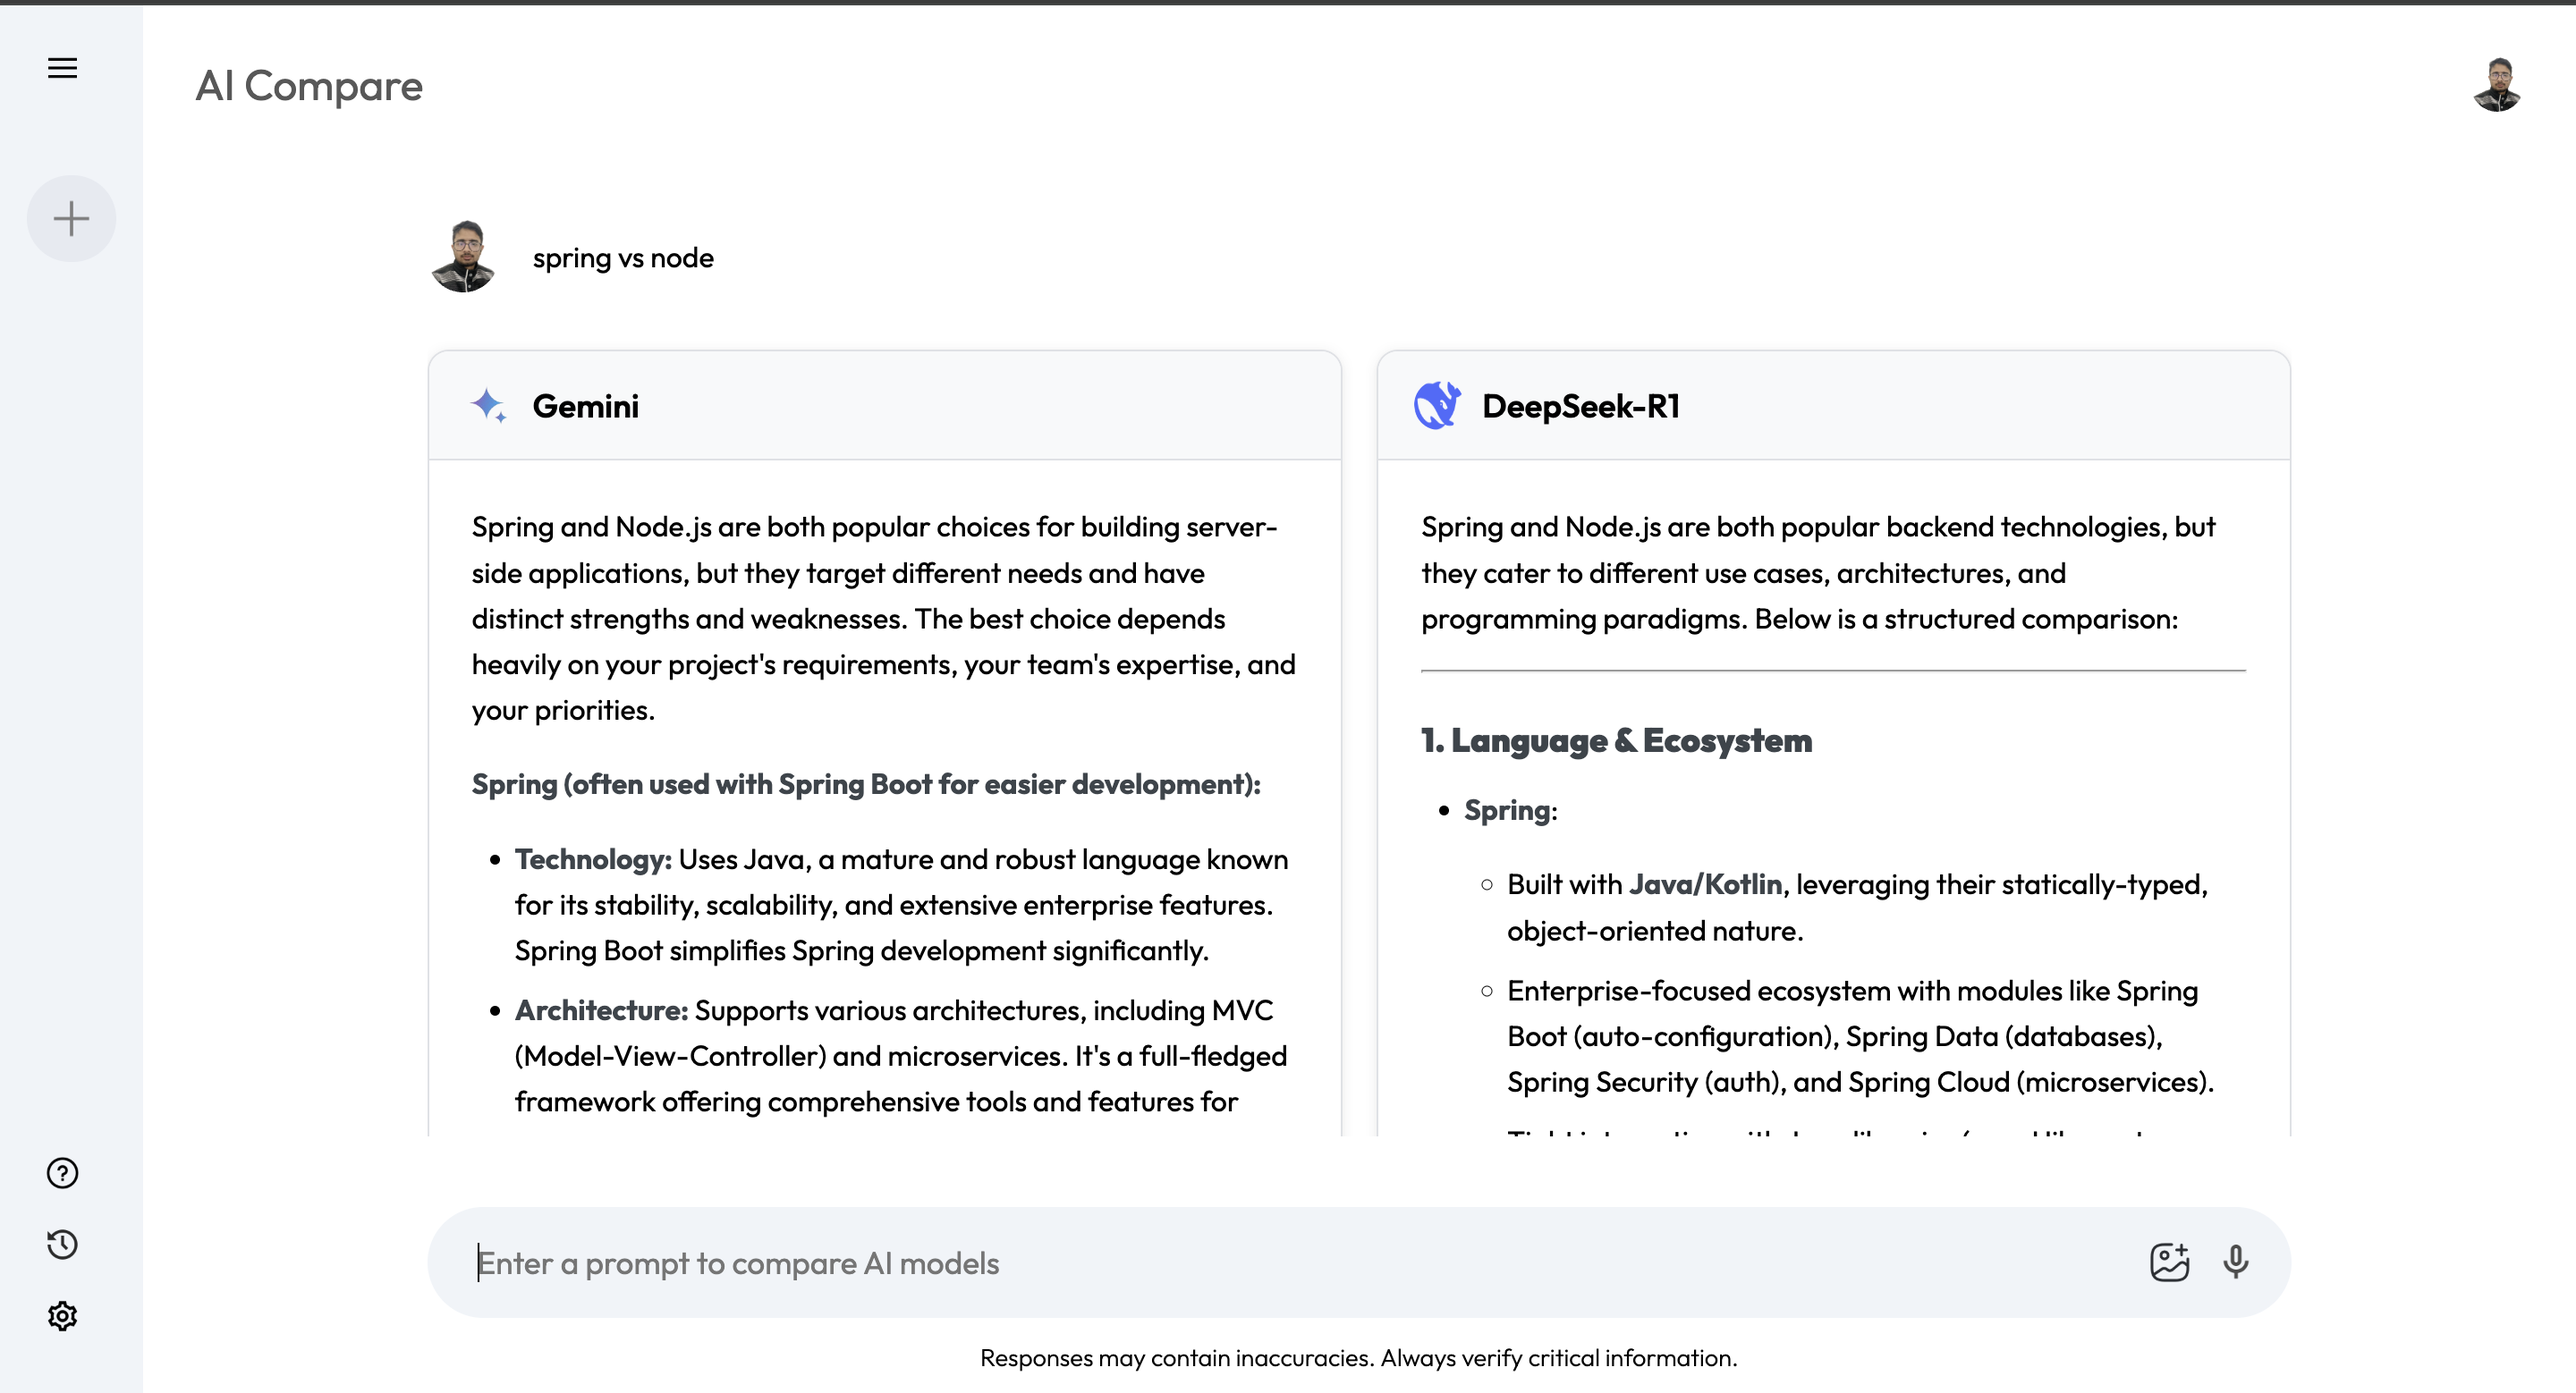
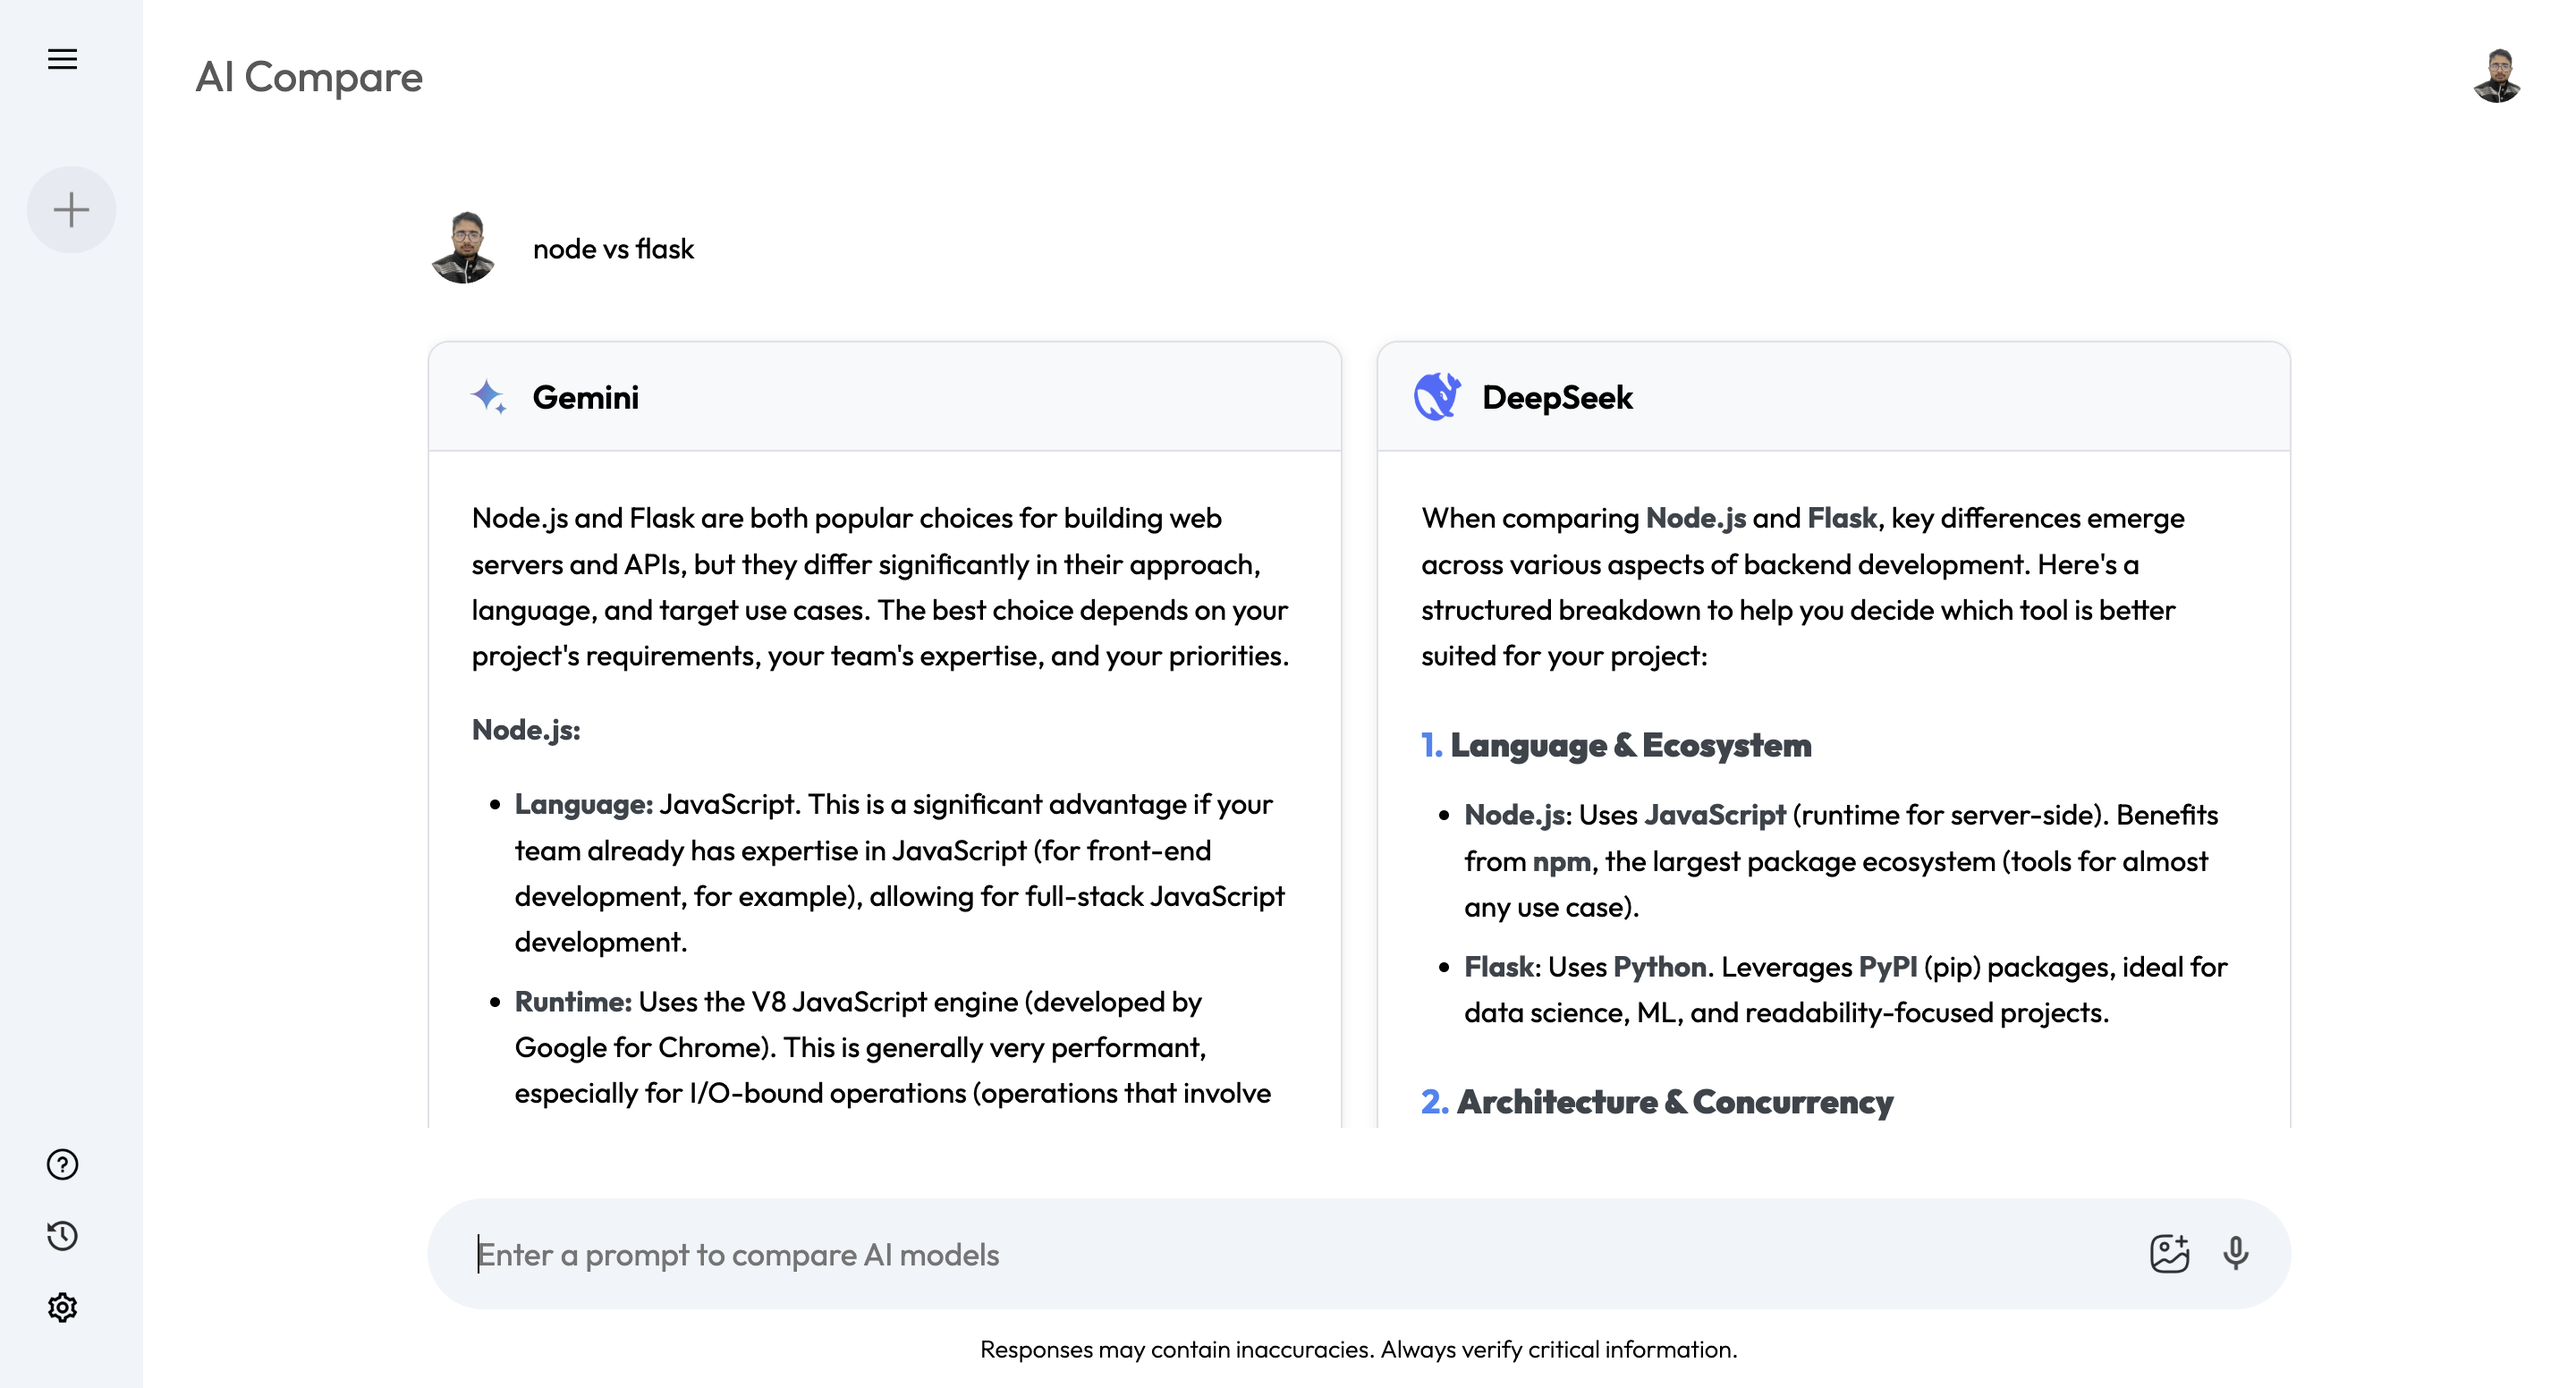
preview img

diff --git a/src/component/Main/Main.jsx b/src/component/Main/Main.jsx
@@ -109,7 +109,7 @@ const Main = () => {
               <div className="model-column">
                 <div className="model-header">
                   <img src={assets.deepseek_icon} alt="deepseek" />
-                  <span>DeepSeek-R1</span>
+                  <span>DeepSeek</span>
                   {deepseekLoading && <div className="pulse-dot"></div>}
                 </div>
                 <div className="model-data" ref={deepseekRef}>
